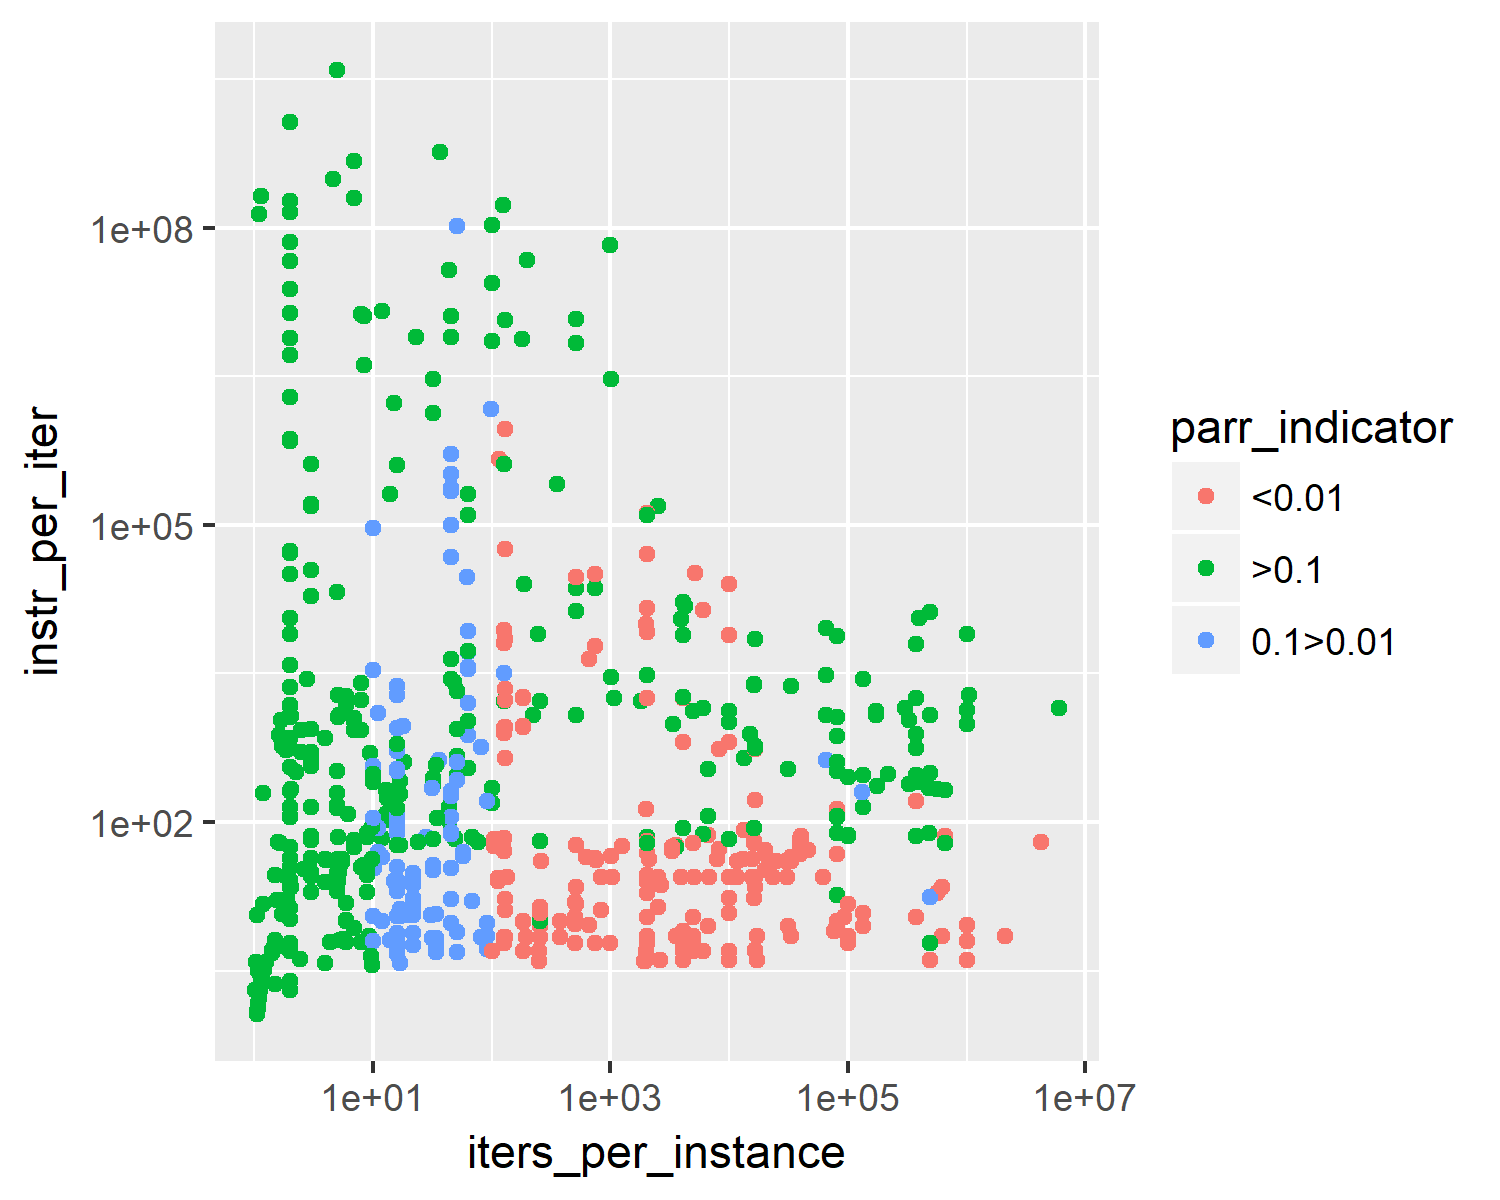
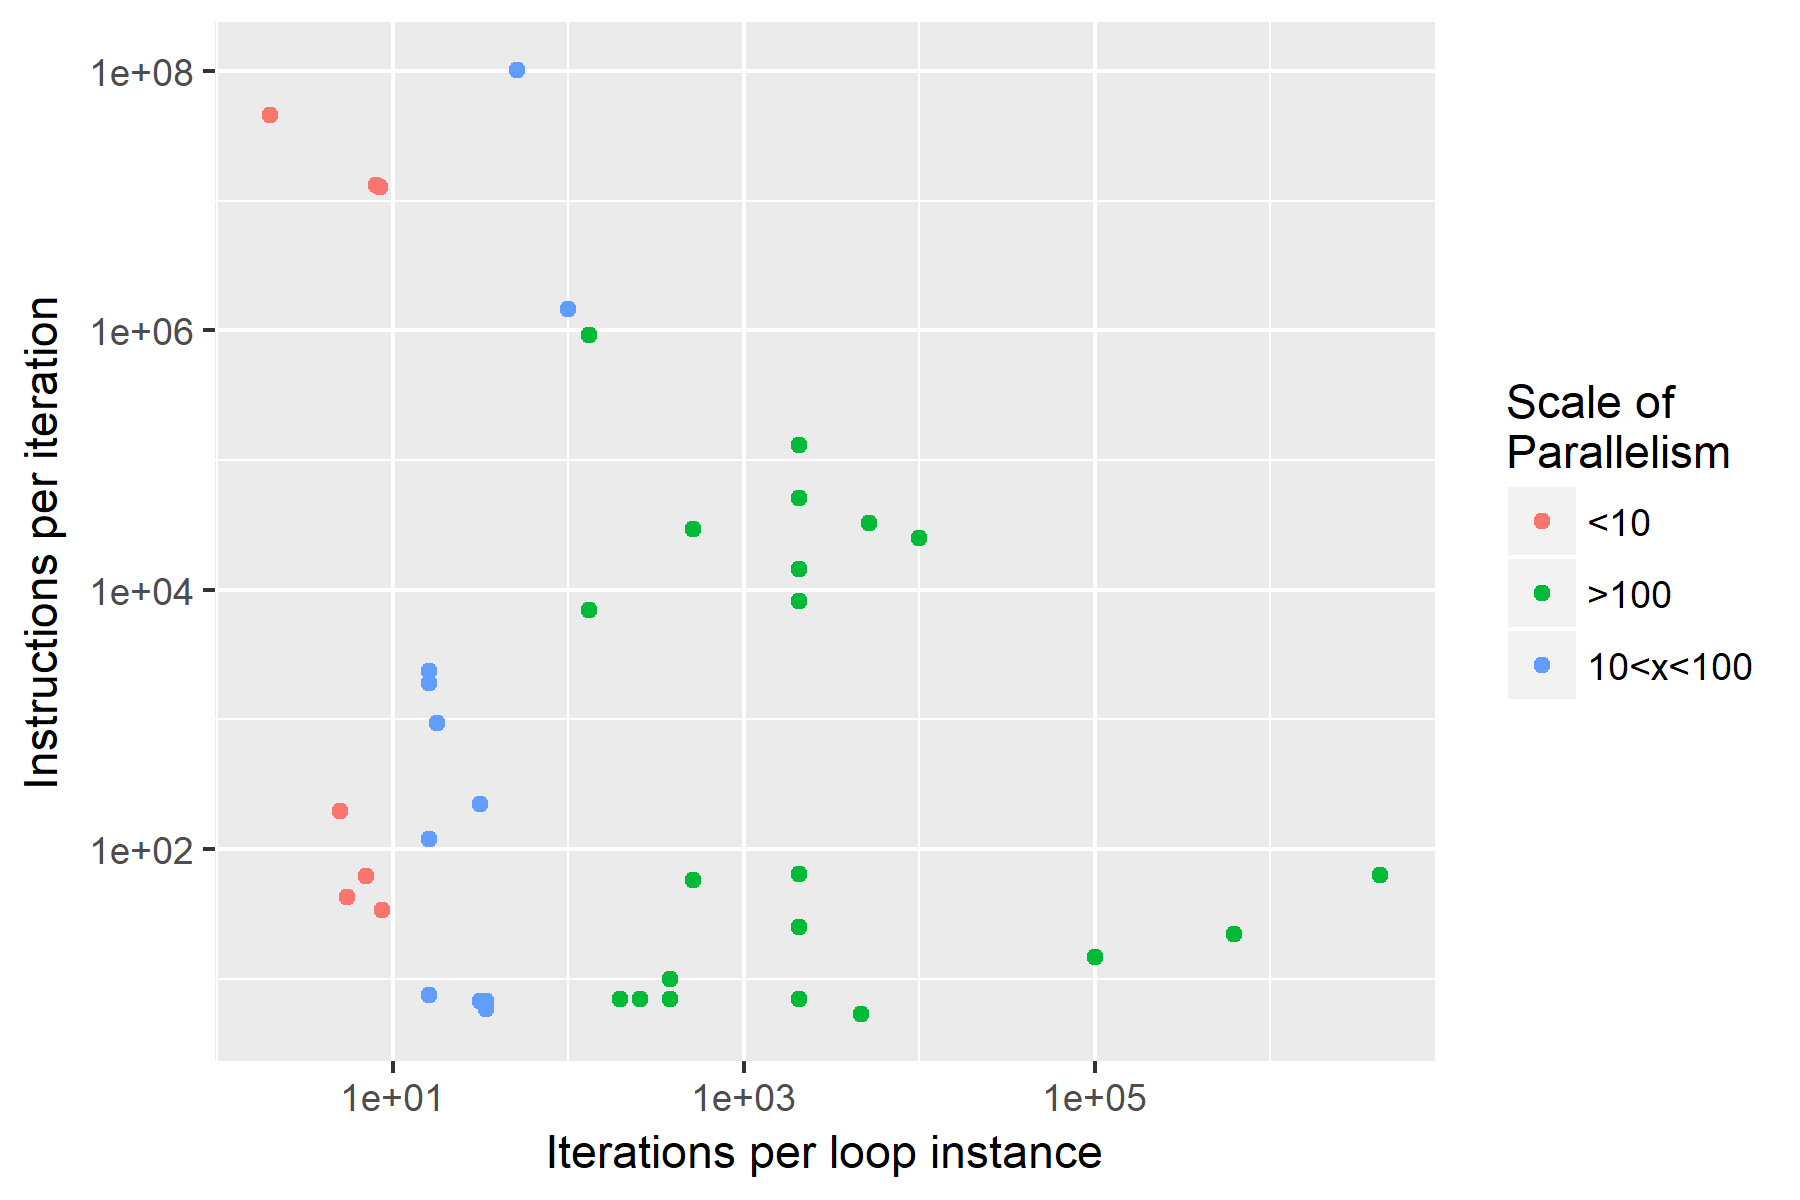
added more crap

diff --git a/thesis.tex b/thesis.tex
@@ -1655,16 +1655,66 @@ for(int i=h_graph_nodes[tid].starting;
 		These assumptions are extremely optimistic, and so this estimate of loop speedup may also be overly optimistic. But it gives a rough estimate of parallizabililty. Many of the loops which score highly, for example, the main loop of blackscholes, are in fact highly parallelizable. The loops which score poorly, are certainly not useful to parallelize. 
 		So this metric can be interpreted as an upper bound on how much the loop can reduce application performance if parallelized. 
 		
+		
+		\begin{figure}
+			\caption{Performance improvement by idealized parallelization}%Possible speedups with parallelization}
+			\label{fig:application-parr}
+			
+			\begin{minipage}{0.73\textwidth} % choose width suitably
+				\includegraphics[scale=0.9]{plots/application_idealized_speedup.png}
+				{\footnotesize Speedup by parallelizing a particular loop in the given application assuming no overhead and infinite cores\par}
+			\end{minipage}
+		\end{figure}
+		
 		We detected some substantial parallelism in most of the profiled applications. 
 		Figure \ref{fig:application-parr} shows speedup of entire applications assuming idealized parallelization of a single loop in the program. BFS, hotspot and lavaMD show little potential for parallelism, as none of the parallel loops are very important to the application. Others, for example heartwall, LUD, and blackscholes show promise for large performance gains by parallelizing a single loop. Others are more ambiguous, such as swaptions and fluidanimate, because while parallelizing a single loop cannot increase application performance that much, it is possible that parallelizing several loops can in fact improve performance substantially. Since this plot only gives information about a single, loop, it cannot say either way.
 		
 		\subsubsection{Uniformity of useful parallel loops}
 		
+		It greatly simplifies analysis to assume that important parallel loops are uniform, i.e., all the loop iterations do the same amount of work. While this is true for most loops, some loops have substantial and problematic variability in iteration size that can impact parallelizability. 
+			
+		To see why this is a problem, consider the idealized parallel machine where infinite threads can run in parallel. Consider a loop with 1000 iterations that can run in parallel, but one of those loop iterations takes as much time all the others combined. In this case, overall loop performance can at most be doubled. But if you assume uniformity of iterations, then performance would be calculated to increase by 1000 times, so the actual and predicted speedup would be off by a factor of 500. 
+		%So non-uniform loops have serious implications to parallelizability. %This is even more important in the case of massively parallel hardware, like GPUs, since each thread is slower than a GPU thread. 
+		
+		Luckily, for the applications chosen, most loops are roughly uniform. Figure \ref{fig:uniformity-tail-etc} shows a metric of uniformity plotted over the number of iterations per loop instance. The metric chosen is the maximum iteration size over the mean size. Only loops which could speed up the program by 10\% or more assuming idealized parallelism are shown. 
+		
+		The two dots in the top left of the graph are loops which have serious problems for parallelizability. They only have 10 loop iterations each on average, but the maximum iteration size is 10 times the mean iteration. This means that performance may not be increased substantially by parallelization, since one iteration dominates the runtime. 
+		
+		The loop that appears in the top right of the graph is not so problematic. After all, it has over 10,000 loop iterations. If the iterations are carefully distributed over threads, it is possible that the variance between iteration sizes would not have a significant impact on performance, since the smaller iterations could be coalesced together into threads comparable to the large thread.
+		
+		The loops which show moderate amounts of variance need to be similarly evaluated on a case by case basis. But 67\% of the important loops shown, the max iteration size is less than 10\% greater than the mean iteration size, which means that most of the important loops are in fact uniform. 
+		
+		%So a value of 10 means that the maximum 
+		
+		%High values indicate some variance in the 
+		
+		\begin{figure}
+			\caption{Uniformity of loop iterations}
+			\label{fig:uniformity-tail-etc}
+			
+			\begin{minipage}{0.6\textwidth} % choose width suitably
+				\includegraphics[scale=0.7]{plots/tail_iters.png}
+				{\footnotesize Loops which could speed up the program by 10\% or more assuming idealized parallelism \par}
+			\end{minipage}
+		\end{figure}
 		
 		\subsubsection{Scale of detected parallelism}
 		
+		The scale of the parallelism is one of the most important considerations when evaluating what sort of hardware to run the loop on. 
+		In particular, 
+		CPUs can run a small number of threads quic
 		
-		\subsubsection{Scale of detected parallelism}
+		\begin{figure}
+			\caption{Uniformity of loop iterations}
+			\label{fig:uniformity-tail-etc}
+			
+			\begin{minipage}{0.6\textwidth} % choose width suitably
+				\includegraphics[scale=0.7]{plots/categorized_conflicts.png}
+				{\footnotesize Loops which could speed up the program by 10\% or more assuming idealized parallelism \par}
+			\end{minipage}
+		\end{figure}
+		
+		
 		
 		%It will be used only to eliminate loops which score poorly from consideration. This will eliminate the many small loops with little importance to the program, and also loops which are not detected to be parallelizable. 
 		
@@ -1676,39 +1726,23 @@ for(int i=h_graph_nodes[tid].starting;
 		
 		%These assumptions can certainly lead to misleading results, it sometimes corresponds to actual parallelization.
 		
-		\begin{figure}
-			\caption{Performance improvement by idealized parallelization}%Possible speedups with parallelization}
-			\label{fig:application-parr}
-			
-			\begin{minipage}{0.73\textwidth} % choose width suitably
-				\includegraphics[scale=0.9]{plots/application_idealized_speedup.png}
-				{\footnotesize Speedup by parallelizing a particular loop in the given application assuming no overhead and infinite cores\par}
-			\end{minipage}
-		\end{figure}
 	
 	\section{Matching parallelism with other metrics}
 	
 		\begin{table}
-		\begin{tabular}{ |p{5.5cm}|p{8cm}| }
+			\caption{Other metrics collected}
+		\begin{tabular}{ |p{4.5cm}|p{11cm}| }
 			\hline
-			Metric & Relevant hardware characteristic(s) \\
+			Metric name & Metric description \\
 			\hline \hline
-			Number of iterations per loop instance & Potential for massive parallelism \\
-			\hline
-			Length of loop iterations by instruction count & Potential for massive parallelism \\
-			\hline
-			Number of writes/reads & Memory bandwidth??? \\
-			\hline
-			Bytes accessed per instance & Memory bandwidth??? Compare w/Footprint for temporal locality? \\
-			\hline
-			Total memory footprint of loop & Compare with Bytes for temporal locality?  \\
-			\hline
-			Shared memory footprint between loop iterations & Cross-thread spacial locality \\
-			\hline
-			Strided accesses  & Latency vs bandwidth \\
-			\hline
-			Number of branch changes & Warp divergence and branch prediction \\
-			\hline
+			SwitchesOverBranches & Number of time a branch path changes direction over the number of times a branch instruction is executed \\ \hline
+			SwitchesOverInstructions & Number of time a branch path changes direction over the number of instructions executed \\ \hline
+			PercNonStridedAccesses & Percentage of accesses which do not access memory as a stride \\ \hline
+			StridedAccessesBelow16 & Percentage of accesses which are strides of length 16 bytes or less \\ \hline
+			StridedAccessesAbove16 &  Percentage of accesses which are strides of length 16 bytes or more \\ \hline
+			PercFixedAccesses & Percentage of accesses which are strides of length zero, i.e. they access the same location of memory location repeatedly \\ \hline
+			MemoryAccessesPerInstr & Number of memory accesses over number of instructions \\ \hline
+			PercAccessesReads & Percentage of memory accesses which are reads  \\ \hline
 		\end{tabular}
 	\end{table}
 	
